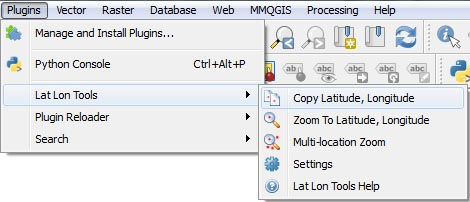
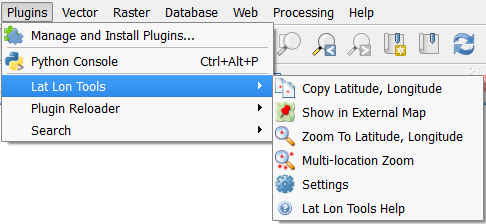
Added external map support and local help.

diff --git a/helphead.html b/helphead.html
@@ -1,0 +1,38 @@
+<head>
+<style>
+body {
+    font:13.34px helvetica,arial,freesans,clean,sans-serif;
+    color:black;
+    line-height:1.4em;
+    background-color: #F8F8F8;
+    padding: 0.7em;
+}
+pre {
+    margin:1em 0;
+    font-size:12px;
+    background-color:#eee;
+    border:1px solid #ddd;
+    padding:5px;
+    line-height:1.5em;
+    color:#444;
+    overflow:auto;
+    -webkit-box-shadow:rgba(0,0,0,0.07) 0 1px 2px inset;
+    -webkit-border-radius:3px;
+    -moz-border-radius:3px;border-radius:3px;
+}
+pre code {
+    padding:0;
+    font-size:12px;
+    background-color:#eee;
+    border:none;
+}
+code {
+    font-size:12px;
+    background-color:#f8f8ff;
+    color:#444;
+    padding:0 .2em;
+    border:1px solid #dedede;
+}
+</style>
+</head>
+<body>

diff --git a/settings.py b/settings.py
@@ -1,5 +1,6 @@
 import os
 import re
+import mapProviders
 
 from PyQt4 import QtGui, uic
 from PyQt4.QtCore import *
@@ -24,6 +25,7 @@ class SettingsWidget(QtGui.QDialog, FORM_CLASS):
         self.zoomToCoordTypeComboBox.addItems(['WGS 84 (Latitude & Longitude)', 'MGRS'])
         self.zoomToCoordOrderComboBox.addItems(['Lat, Lon (Y,X) - Google Map Order','Lon, Lat (X,Y) Order'])
         self.zoomToCoordTypeComboBox.activated.connect(self.comboBoxChanged)
+        self.mapProviderComboBox.addItems(mapProviders.mapProviderNames())
         self.readSettings()
         
     def readSettings(self):
@@ -36,15 +38,16 @@ class SettingsWidget(QtGui.QDialog, FORM_CLASS):
         self.coordOrder = int(settings.value('/LatLonTools/CoordOrder', 0))
         self.zoomToCoordOrder = int(settings.value('/LatLonTools/ZoomToCoordOrder', 0))
         self.zoomToCoordType = int(settings.value('/LatLonTools/ZoomToCoordType', 0))
+        self.showPlacemark = int(settings.value('/LatLonTools/ShowPlacemark', Qt.Checked))
+        self.mapProvider = int(settings.value('/LatLonTools/MapProvider', 0))
+        self.mapZoom = int(settings.value('/LatLonTools/MapZoom', 13))
         self.setEnabled()
         
     def accept(self):
         '''Accept the settings and save them for next time.'''
         settings = QSettings()
-        zoomToType = int(self.zoomToCoordTypeComboBox.currentIndex())
-        settings.setValue('/LatLonTools/ZoomToCoordType', zoomToType)
-        zoomToOrder = int(self.zoomToCoordOrderComboBox.currentIndex())
-        settings.setValue('/LatLonTools/ZoomToCoordOrder', zoomToOrder)
+        settings.setValue('/LatLonTools/ZoomToCoordType', int(self.zoomToCoordTypeComboBox.currentIndex()))
+        settings.setValue('/LatLonTools/ZoomToCoordOrder', int(self.zoomToCoordOrderComboBox.currentIndex()))
         coord = self.coordComboBox.currentIndex()
         if coord == 0:
             settings.setValue('/LatLonTools/OutputFormat', 'decimal')
@@ -69,8 +72,11 @@ class SettingsWidget(QtGui.QDialog, FORM_CLASS):
             
         settings.setValue('/LatLonTools/DMSPrecision', self.precisionSpinBox.value())
         
-        order = int(self.coordOrderComboBox.currentIndex())
-        settings.setValue('/LatLonTools/CoordOrder', order)
+        settings.setValue('/LatLonTools/CoordOrder', int(self.coordOrderComboBox.currentIndex()))
+        
+        settings.setValue('/LatLonTools/ShowPlacemark', self.showPlacemarkCheckBox.checkState())
+        settings.setValue('/LatLonTools/MapProvider',int(self.mapProviderComboBox.currentIndex()))
+        settings.setValue('/LatLonTools/MapZoom',int(self.zoomSpinBox.value()))
         
         self.readSettings()
         self.lltools.settingsChanged()
@@ -117,4 +123,18 @@ class SettingsWidget(QtGui.QDialog, FORM_CLASS):
         self.precisionSpinBox.setValue(self.dmsPrecision)
         
         self.coordOrderComboBox.setCurrentIndex(self.coordOrder)
+        self.showPlacemarkCheckBox.setCheckState(self.showPlacemark)
+        self.mapProviderComboBox.setCurrentIndex(self.mapProvider)
+        self.zoomSpinBox.setValue(self.mapZoom)
         self.setEnabled()
+
+    def getMapProviderString(self, lat, lon):
+        if self.showPlacemark:
+            ms = mapProviders.MAP_PROVIDERS[self.mapProvider][2]
+        else:
+            ms = mapProviders.MAP_PROVIDERS[self.mapProvider][1]
+        ms = ms.replace('@LAT@', str(lat))
+        ms = ms.replace('@LON@', str(lon))
+        ms = ms.replace('@Z@', str(self.mapZoom))
+        return ms
+        

diff --git a/latLonTools.py b/latLonTools.py
@@ -9,6 +9,7 @@ from qgis.gui import *
 from zoomToLatLon import ZoomToLatLon
 from multizoom import MultiZoomWidget
 from copyLatLonTool import CopyLatLonTool
+from showOnMapTool import ShowOnMapTool
 from settings import SettingsWidget
 import os.path
 import webbrowser
@@ -27,6 +28,7 @@ class LatLonTools:
         self.settingsDialog = SettingsWidget(self, self.iface, self.iface.mainWindow())
         self.multiZoomDialog = MultiZoomWidget(self, self.settingsDialog, self.iface.mainWindow())
         self.mapTool = CopyLatLonTool(self.settingsDialog, self.iface)
+        self.showMapTool = ShowOnMapTool(self.settingsDialog, self.iface)
         
         # Add Interface for Coordinate Capturing
         icon = QIcon(os.path.dirname(__file__) + "/images/copyicon.png")
@@ -35,6 +37,14 @@ class LatLonTools:
         self.copyAction.setCheckable(True)
         self.iface.addToolBarIcon(self.copyAction)
         self.iface.addPluginToMenu("Lat Lon Tools", self.copyAction)
+        
+        # Add Interface for External Map
+        icon = QIcon(os.path.dirname(__file__) + "/images/mapicon.png")
+        self.externMapAction = QAction(icon, "Show in External Map", self.iface.mainWindow())
+        self.externMapAction.triggered.connect(self.setShowMapTool)
+        self.externMapAction.setCheckable(True)
+        self.iface.addToolBarIcon(self.externMapAction)
+        self.iface.addPluginToMenu("Lat Lon Tools", self.externMapAction)
 
         # Add Interface for Zoom to Coordinate
         zoomicon = QIcon(os.path.dirname(__file__) + "/images/zoomicon.png")
@@ -71,14 +81,19 @@ class LatLonTools:
         try:
             if not isinstance(tool, CopyLatLonTool):
                 self.copyAction.setChecked(False)
+            if not isinstance(tool, ShowOnMapTool):
+                self.externMapAction.setChecked(False)
         except:
             pass
 
     def unload(self):
         '''Unload LatLonTools from the QGIS interface'''
         self.canvas.unsetMapTool(self.mapTool)
+        self.canvas.unsetMapTool(self.showMapTool)
         self.iface.removePluginMenu('Lat Lon Tools', self.copyAction)
         self.iface.removeToolBarIcon(self.copyAction)
+        self.iface.removePluginMenu('Lat Lon Tools', self.externMapAction)
+        self.iface.removeToolBarIcon(self.externMapAction)
         self.iface.removePluginMenu('Lat Lon Tools', self.zoomToAction)
         self.iface.removePluginMenu('Lat Lon Tools', self.multiZoomToAction)
         self.iface.removePluginMenu('Lat Lon Tools', self.settingsAction)
@@ -90,6 +105,11 @@ class LatLonTools:
         '''Set the focus of the copy coordinate tool and check it'''
         self.copyAction.setChecked(True)
         self.canvas.setMapTool(self.mapTool)
+
+    def setShowMapTool(self):
+        '''Set the focus of the copy coordinate tool and check it'''
+        self.externMapAction.setChecked(True)
+        self.canvas.setMapTool(self.showMapTool)
 
     def zoomTo(self):
         '''Show the zoom to docked widget.'''
@@ -105,7 +125,8 @@ class LatLonTools:
         
     def help(self):
         '''Display a help page'''
-        webbrowser.open("https://github.com/NationalSecurityAgency/qgis-latlontools-plugin/#readme")
+        url = QUrl.fromLocalFile(os.path.dirname(__file__) + "/index.html").toString()
+        webbrowser.open(url, new=2)
         
     def settingsChanged(self):
         # Settings may have changed so we need to make sure the zoomToDialog window is configured properly

diff --git a/showOnMapTool.py b/showOnMapTool.py
@@ -1,0 +1,34 @@
+from PyQt4.QtCore import *
+from PyQt4.QtGui import *
+from qgis.core import *
+from qgis.gui import *
+import webbrowser
+
+class ShowOnMapTool(QgsMapTool):
+    '''Class to interact with the map canvas to capture the coordinate
+    when the mouse button is pressed and to display the coordinate in
+    in the status bar.'''
+    def __init__(self, settings, iface):
+        QgsMapTool.__init__(self, iface.mapCanvas())
+        self.iface = iface
+        self.canvas = iface.mapCanvas()
+        self.settings = settings
+        
+    def activate(self):
+        '''When activated set the cursor to a crosshair.'''
+        self.canvas.setCursor(Qt.CrossCursor)
+        
+    def canvasReleaseEvent(self, event):
+        '''Capture the coordinate when the mouse button has been released,
+        format it, and copy it to the clipboard.'''
+        pt = self.toMapCoordinates(event.pos())
+        canvasCRS = self.canvas.mapRenderer().destinationCrs()
+        epsg4326 = QgsCoordinateReferenceSystem("EPSG:4326")
+        transform = QgsCoordinateTransform(canvasCRS, epsg4326)
+        pt4326 = transform.transform(pt.x(), pt.y())
+        lat = pt4326.y()
+        lon = pt4326.x()
+        mapprovider = self.settings.getMapProviderString(lat, lon)
+        url = QUrl(mapprovider).toString()
+        webbrowser.open(url, new=2)
+        self.iface.messageBar().pushMessage("", "Viewing Coordinate %f,%f in external map" % (lat,lon), level=QgsMessageBar.INFO, duration=3)

diff --git a/mapProviders.py b/mapProviders.py
@@ -1,0 +1,14 @@
+
+MAP_PROVIDERS = [
+['OSM', 'http://www.openstreetmap.org/#map=@Z@/@LAT@/@LON@','http://www.openstreetmap.org/?mlat=@LAT@&mlon=@LON@#map=@Z@/@LAT@/@LON@'],
+['Google Map', 'https://www.google.com/maps/@@LAT@,@LON@,@Z@z', 'https://www.google.com/maps/place/@LAT@,@LON@/@@LAT@,@LON@,@Z@z'],
+['Google Aerial', 'https://www.google.com/maps/@@LAT@,@LON@,@Z@z/data=!3m1!1e3', 'https://www.google.com/maps/place/@LAT@,@LON@/@@LAT@,@LON@,@Z@z/data=!3m1!1e3'],
+['Bing Map', 'https://www.bing.com/maps?cp=@LAT@~@LON@&lvl=@Z@', 'https://www.bing.com/maps?cp=@LAT@~@LON@&lvl=@Z@&sp=point.@LAT@_@LON@_QGIS%20Point'],
+['Bing Aerial', 'https://www.bing.com/maps?cp=@LAT@~@LON@&lvl=@Z@&style=a', 'https://www.bing.com/maps?cp=@LAT@~@LON@&lvl=@Z@&style=a&sp=point.@LAT@_@LON@_QGIS%20Point']
+]
+
+def mapProviderNames():
+    plist =[]
+    for x in MAP_PROVIDERS:
+        plist.append(x[0])
+    return plist

diff --git a/readme.md b/readme.md
@@ -1,26 +1,28 @@
 # Lat Lon Tools Plugin
 
-When working with **Google Earth**, **Google Maps** or other on-line mapping tools, coordinates are specified in the order of 'Latitude, Longitude', but the similar existing QGIS plugins specify the coordinates in the reverse order or require separate fields for latitude and longitude. This makes it so that you have to copy and paste each piece of the coordinate between QGIS and Google Maps which is time consuming. This plugin fixes this problem and adds some additional functionality. By default ***Lat Lon Tools*** snapshots coordinates and parses them in the order of "Latitude, Longitude," but the user can configure this in Settings to reverse to the order to "Longitude, Latitude." ***Lat Lon Tools*** has three tools.
+***Lat Lon Tools*** is a suite of tools that makes it easy to interact with other on-line mapping tools. When working with **Google Earth**, **Google Maps** or other on-line mapping tools, coordinates are usually specified in the order of 'Latitude, Longitude', but the similar existing QGIS plugins specify the coordinates in the reverse order or require separate fields for latitude and longitude. This makes it so that you have to copy and paste each piece of the coordinate between QGIS and Google Maps which is time consuming. This plugin fixes this problem and adds some additional functionality. By default ***Lat Lon Tools*** snapshots coordinates and parses them in the order of "Latitude, Longitude," but the user can configure this in **Settings** to reverse to the order to "Longitude, Latitude." ***Lat Lon Tools*** has four tools.
 
 ![Lat Lon Tools Plugin](doc/menu.jpg)
 
-* ***Copy Latitude, Longitude*** - This captures coordinates onto the clipboard when the user clicks on the map using the standard Google Map format or a format specified in ***`Settings`***. If the user specifies a **`Tab`** separator, then the coordinate can be pasted into a spreadsheet in separate columns. While this tool is selected, the coordinate the mouse is over is shown in the lower left-hand corner either in **decimal degrees**, **DMS**, or **MGRS** depending on the **Settings**.
-* ***Zoom to Latitude, Longitude*** - With this tool, type or paste a coordinate into the text area and hit **Enter**. QGIS will then center the map on the coordinate and highlight the location. The format can either be **DMS**, **decimal degrees**, or **MGRS**. The ***`Coordinate Order`*** in ***`Settings`*** dictates whether the order is latitude followed by longitude or longitude followed by latitude. By default the order is "Latitude, Longitude", the format used by Google Maps. As of version 0.5, MGRS coordinates are now supported.
+* ***Copy Latitude, Longitude*** - This captures coordinates onto the clipboard when the user clicks on the map using the standard Google Map format or a format specified in ***Settings***. If the user specifies a **Tab** separator, then the coordinate can be pasted into a spreadsheet in separate columns. While this tool is selected, the coordinate the mouse is over is shown in the lower left-hand corner either in **decimal degrees**, **DMS**, or **MGRS** depending on the **Settings**.
+* ***Show in External Map*** - With this tool, the user can click on the QGIS map which launchs an external browser and displays the location on an external map. Currently Open Street Map, Google Maps, and Bing Maps are supported. The desired map can be configured in **Settings**.
+* ***Zoom to Latitude, Longitude*** - With this tool, type or paste a coordinate into the text area and hit **Enter**. QGIS will then center the map on the coordinate and highlight the location. The format can either be **DMS**, **decimal degrees**, or **MGRS**. The ***Coordinate Order*** in ***Settings*** dictates whether the order is latitude followed by longitude or longitude followed by latitude. By default the order is "Latitude, Longitude", the format used by Google Maps. As of version 0.5, MGRS coordinates are now supported.
 
 ![Zoom to Latitude, Longitude](doc/zoomto.jpg)
 
-* ***Multi-location Zoom*** - With this tool the user can read in a set of coordinates that are in either **decimal degrees** or **DMS** notation. The one requirement is that each pair of coordinates are on separate lines and in the order is latitude followed by longitude. The user can also paste or type in a coordinate in the ***`Add Single Coordinate`*** box and add it to the list. When the user clicks on one of the coordinates in the list, the QGIS map will center itself and highlight the coordinate.
+* ***Multi-location Zoom*** - With this tool the user can read in a set of coordinates that are in either **decimal degrees** or **DMS** notation. The one requirement is that each pair of coordinates are on separate lines and in the order is latitude followed by longitude. The user can also paste or type in a coordinate in the ***Add Single Coordinate*** box and add it to the list. When the user clicks on one of the coordinates in the list, the QGIS map will center itself and highlight the coordinate.
 
 ![Multi-location Zoom](doc/multizoom.jpg)
 
-By default ***Lat Lon Tools*** follows the **Google Map** convention making it possible to copy and paste between QGIS, Google Map, Google Earth, and other on-line maps without breaking the coordinates into pieces. All tools work with latitude and longitude coordinates regardless of the QGIS project coordinate reference system. In ***`Settings`*** the user can choose the ***`Coordinate Capture Delimiter`*** used between coordinates with presets for **`Comma`**, **`Space`**, and **`Tab`**. **`Other`** allows the user to specify a delimited string which can be more than one character. The user can also choose whether the snapshot format is in **`Decimal Degrees`**, **`DMS coordinates`**, **`Native CRS coordinates`**, or **`MGRS coordinates`**.
+By default ***Lat Lon Tools*** follows the **Google Map** convention making it possible to copy and paste between QGIS, Google Map, Google Earth, and other on-line maps without breaking the coordinates into pieces. All tools work with latitude and longitude coordinates regardless of the QGIS project coordinate reference system. In ***Settings*** the user can choose the ***Coordinate Capture Delimiter*** used between coordinates with presets for **Comma**, **Space**, and **Tab**. **Other** allows the user to specify a delimited string which can be more than one character. The user can also choose whether the snapshot format is in **Decimal Degrees**, **DMS coordinates**, **Native CRS coordinates**, or **MGRS coordinates**.
 
 ## Settings
-This shows the **Capture & Display Settings** of the dialog box.
+
+### Capture & Display Settings
 
 ![Capture and Display Settings](doc/settings.jpg)
 
-There are 5 capture formats that can be selected from the ***`Select the Coordinate Capture Format`*** drop down menu. The formats of each are as follows.
+There are 5 capture formats that can be selected from the ***Select the Coordinate Capture Format*** drop down menu. The formats of each are as follows.
 
 * **Decimal Degrees** - "42.20391297, -86.023854202"
 * **DMS** - "36&deg; 47' 24.27" N, 99&deg; 22' 9.39" W"
@@ -28,25 +30,40 @@ There are 5 capture formats that can be selected from the ***`Select the Coordin
 * **Native CRS** - This captures the coordinates in the Native CRS
 * **MGRS** - This captures the coordinates in the [MGRS](https://en.wikipedia.org/wiki/Military_grid_reference_system) format
 
-Note that in the DMS formats, the number of digits after the decimal is set by ***`DMS Second Precision`***. The ***`Coordinate Capture Delimiter`*** is what separates the two coordinates. In the drop down menu you can specify a **`Comma`** which is really a comma followed by a space. Additional delimiters are **`Tab`**, **`Space`**, and **`Other`**. If **`Other`** is selected, then the contents of ***`Other Delimiter`*** will be used.
+Note that in the DMS formats, the number of digits after the decimal is set by ***DMS Second Precision***. The ***Coordinate Capture Delimiter*** is what separates the two coordinates. In the drop down menu you can specify a **Comma** which is really a comma followed by a space. Additional delimiters are **Tab**, **Space**, and **Other**. If **Other** is selected, then the contents of ***Other Delimiter*** will be used.
 
-The order in which the coordinates are captured are determined by ***`Coordinate Capture Order`*** and are one of the following.
+The order in which the coordinates are captured are determined by ***Coordinate Capture Order*** and are one of the following.
 
 * **Lat, Lon (Y,X) - Google Map Order**
 * **Lon, Lat (X,Y) Order**.
 
-The ***`Zoom to Settings`*** are as follows:
+### Zoom to Settings
 
 ![Zoom to Settings](doc/settings2.jpg)
 
-The ***`Zoom to Latitude, Longitude`*** tool accepts the following input coordinates as specified by ***`Zoom to Coordinate Type`***:
+The ***Zoom to Latitude, Longitude*** tool accepts the following input coordinates as specified by ***Zoom to Coordinate Type***:
 
-* **WGS 84 (Latitude & Longitude) - Input coordinates can be either in decimal or DMS degrees. The order of the coordinates are determined by ***`Zoom to Coordinate Order`***.
+* **WGS 84 (Latitude & Longitude)** - Input coordinates can be either in decimal or DMS degrees. The order of the coordinates are determined by ***Zoom to Coordinate Order***.
 * **MGRS** - This accepts [MGRS](https://en.wikipedia.org/wiki/Military_grid_reference_system) coordinates as input.
 
-The order in which the coordinates are parsed in the ***`Zoom to Latitude, Longitude`*** tool is specified by ***`Zoom to Coordinate Type`*** and has the following two options:
+The order in which the coordinates are parsed in the ***Zoom to Latitude, Longitude*** tool is specified by ***Zoom to Coordinate Type*** and has the following two options:
 
 * **Lat, Lon (Y,X) - Google Map Order**
 * **Lon, Lat (X,Y) Order**
 
+### External Map Settings
 
+![External Map Settings](doc/settings3.jpg)
+
+Here you can ***Select an External Map Provider***. The options are:
+
+* **OSM** - Open Street Map
+* **Google Map**
+* **Google Aerial**
+* **Bing Map**
+* **Bing Aerial**
+
+***Map Hints*** are desired attributes you would like to see in the resulting map. 
+
+* **Show placemap** - When checked the external map will show a placemark at the location clicked on in the QGIS map. If this is not checked then the external map will center itself around clicked location, but will not display the placemark.
+* **Map Zoom Level** - This is the desired default zoom level in the external map when it is launched.
